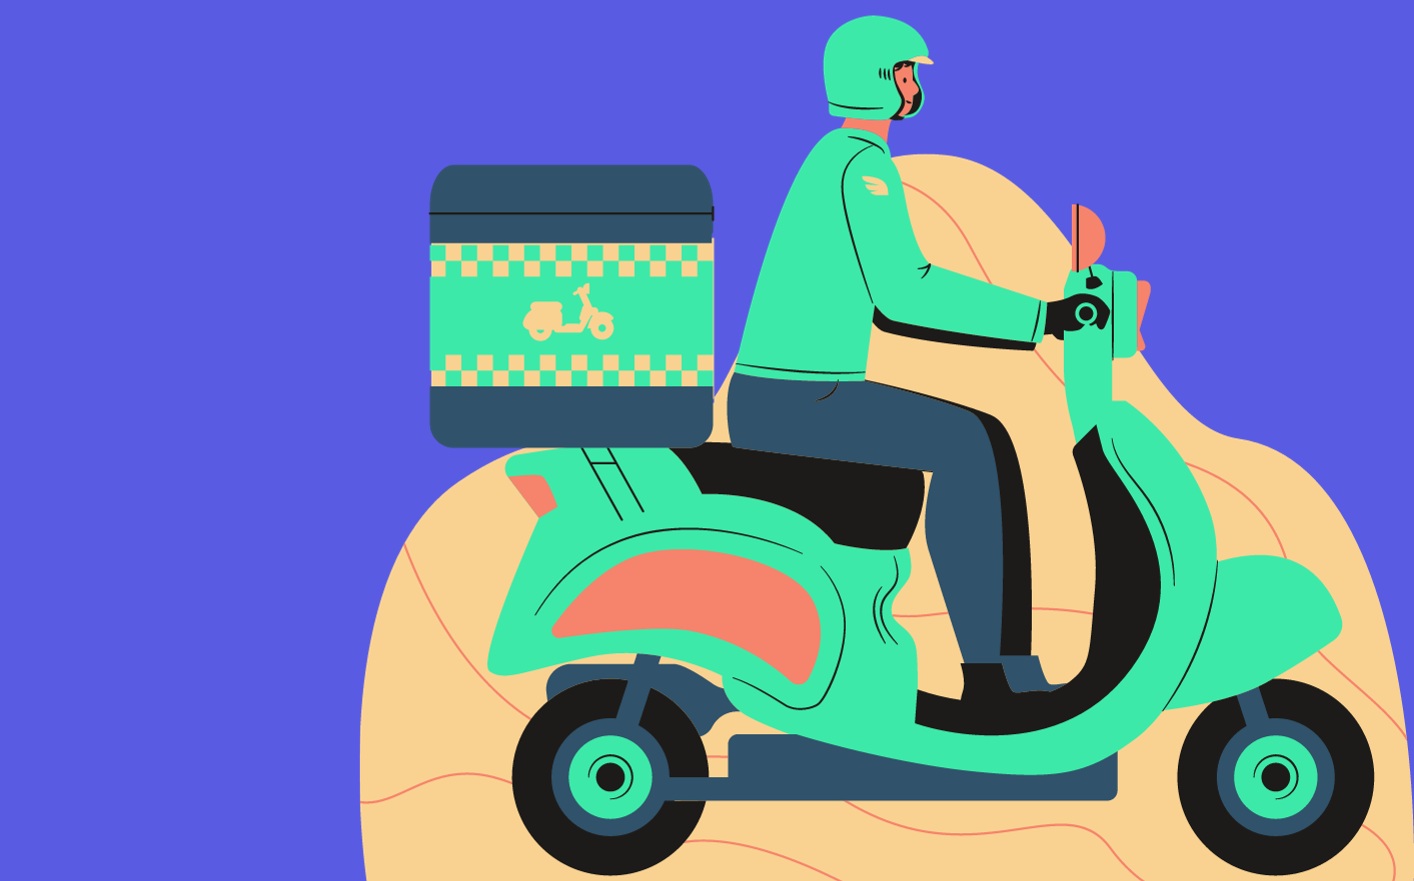
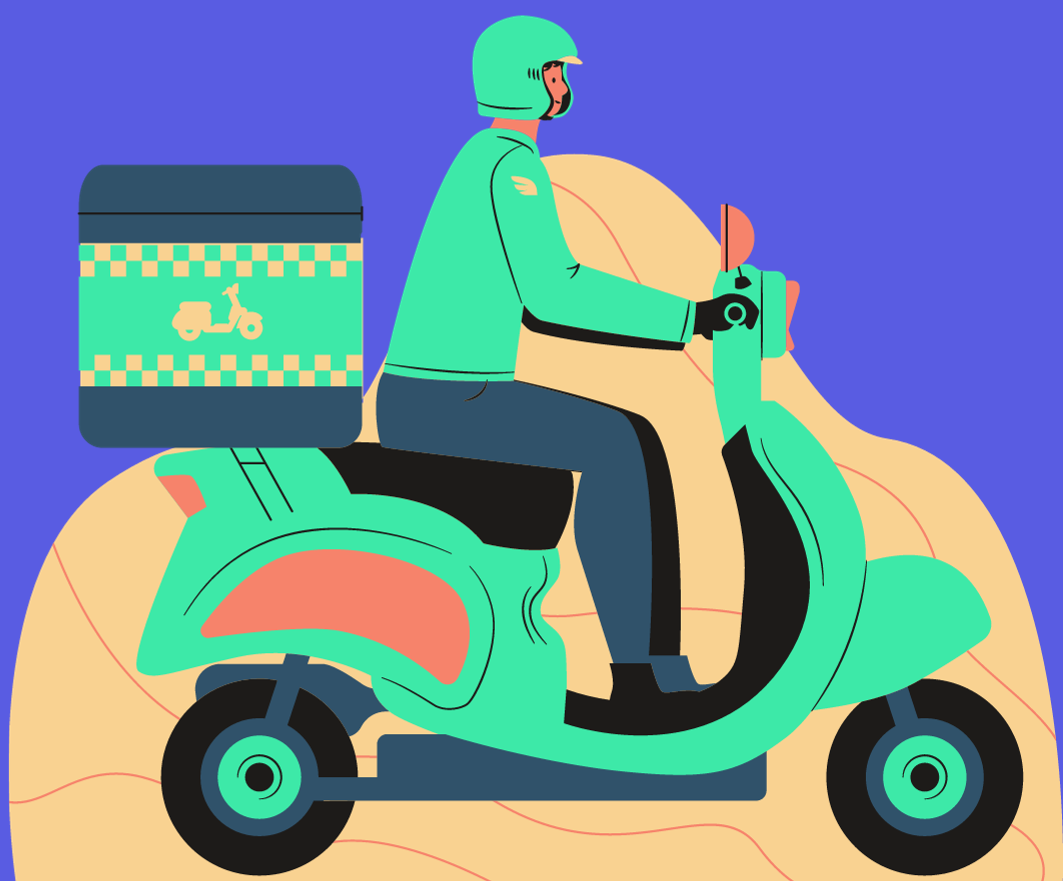
Add files via upload

diff --git a/styles.css b/styles.css
@@ -4,6 +4,8 @@ body {
     padding: 0;
     background-color: #595CE2; /* Azul de fondo */
     color: #FAFAFA; /* Blanco para texto y bordes */
+    
+    
 }
 
 /* */
@@ -74,13 +76,17 @@ body {
     font-size: 28px; /* Ajustado: Tamaño de fuente más grande */
     font-weight: bold;
     margin-bottom: 5px; /* Ajustado: Menor margen inferior */
+    text-align: center; /* Centrar el título */
+    width: 100%; /* Asegurar que ocupe el ancho completo */
+
+
 }
 
 #divider {
     width: 2px;
     background-color: #FAFAFA;
     border-radius: 5px;
-    margin: 10px 20px; /* Ajustado: Menor distancia de la línea al contenido superior e inferior */
+    margin: 10px auto; /* Ajustado: Menor distancia de la línea al contenido superior e inferior */
 }
 
 #form-container {

diff --git a/index.html b/index.html
@@ -21,7 +21,7 @@
         <div id="horarios-container">
             <div id="horarios-title">HORARIOS</div>
             <p id="diasSemana">Cargando horario...</p>
-            <img src="/icon.png" alt=" " style="width: 100%; height: auto;">
+            <img src="/icon.png" alt=" " style="width: 70%; height: auto;">
     </div>
 
         <div id="divider"></div>
